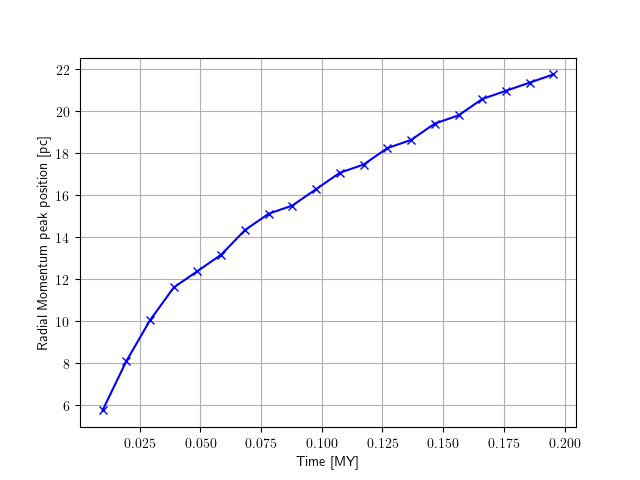
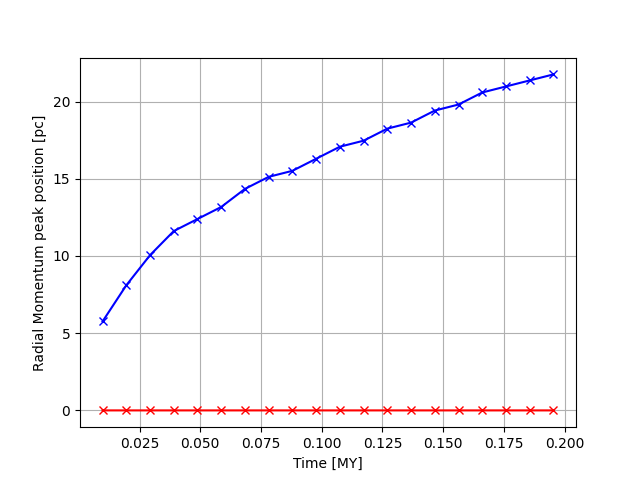
Add files via upload

diff --git a/spherical1d/polytrope_1d_spherical/check.py b/spherical1d/polytrope_1d_spherical/check.py
@@ -10,7 +10,7 @@ import numpy as np    # scientific computing package
 import h5py    # hdf5 format
 import os      # file specific calls
 import matplotlib.pyplot as plt    ## needs to be active for plotting!
-plt.rcParams['text.usetex'] = True
+#plt.rcParams['text.usetex'] = True
 
 makeplots = True
 if len(sys.argv) > 2:
@@ -42,18 +42,37 @@ DeltaMaxAllowed = 0.001 * FloatType(NumberOfCells/256.0)**-2
 i_snap = 0
 directory = simulation_directory+"/output/"
 filename = "snap_%03d.hdf5" % (i_snap)
-data = h5py.File(directory+filename, "r")
-Pos_ref = np.array(data["PartType0"]["Coordinates"], dtype = FloatType)[:,0]
-Density_ref = np.array(data["PartType0"]["Density"], dtype = FloatType)
-Velocity_ref = np.array(data["PartType0"]["Velocities"], dtype = FloatType)[:,0]
-Uthermal_ref = np.array(data["PartType0"]["InternalEnergy"], dtype = FloatType)
+#data = h5py.File(directory+filename, "r")
+#Pos_ref = np.array(data["PartType0"]["Coordinates"], dtype = FloatType)[:,0]
+#Density_ref = np.array(data["PartType0"]["Density"], dtype = FloatType)
+#Velocity_ref = np.array(data["PartType0"]["Velocities"], dtype = FloatType)[:,0]
+Uthermal_0 = np.array(data["PartType0"]["InternalEnergy"], dtype = FloatType)
 
-Accel_ref = np.array(data["PartType0"]["Acceleration"], dtype = FloatType)[:,0]
-GradPress_ref = np.array(data["PartType0"]["PressureGradient"], dtype = FloatType)[:,0]
+#Accel_ref = np.array(data["PartType0"]["Acceleration"], dtype = FloatType)[:,0]
+#GradPress_ref = np.array(data["PartType0"]["PressureGradient"], dtype = FloatType)[:,0]
 UnitTime = 0.977 #in MY
+gamma = 1.666  ## note: this has to be consistent with the parameter settings for Arepo
+Temperature = 1e+4
+kb = 1.38e-16
+mH = 1.67e-24
+scale_v =  1e+5
+scale_l   =  3.086e+18
+scale_m    = 1.98e+33
+scale_t = scale_l/scale_v
+scale_p = scale_m/(scale_l*scale_t**2)
+scale_d = 6.807e-23
+scale_E = scale_m*scale_v**2
 CGSTime = UnitTime*31.6e+12
 CGSMass = 1.988e+33
 CGSlenght = 3.086e+18
+CGSVelocity = CGSlenght/CGSTime
+ergs = 1e-7
+meters = 1e-3
+kg = 1e-3
+
+#print(Uthermal_0.sum()*scale_E)
+#quit()
+
 
 
 time = []
@@ -71,6 +90,13 @@ Uthermal_all = np.empty((0,i_snap))
 Ukinetic_all = np.empty((0,i_snap))
 Utot_all = (Uthermal_all + Ukinetic_all)
 Ufond =  kb*T #Uthermal_ref[Uthermal_ref.size-1]
+eta = 2.026
+E = 1e+51
+density_0 = 1.0*scale_d #repris de create.py QUOI METTRE???
+rAna = np.zeros(20)
+vAna = np.zeros(20)
+RadAna = np.zeros(20)
+
 
 
 
@@ -91,6 +117,8 @@ while True:
     Velocity = np.array(data["PartType0"]["Velocities"], dtype = FloatType)[:,0]
     Uthermal = np.array(data["PartType0"]["InternalEnergy"], dtype = FloatType)
     Volume = []
+    mu = 14/23*mH
+    Temperature = 2/3*mu*mH*Uthermal/kb/Density
 
     for i,r in enumerate(Pos) :
       if i == 0 :
@@ -98,15 +126,24 @@ while True:
       else :
         Volume.append(4./3.*np.pi*(Pos[i]**3 - Pos[i-1]**3))
 
-
+    n = Density*CGSMass/Volume/CGSlenght**3/mu/mH
     Mass = Density*Volume
     RadMom = Velocity*Mass
     Ukinetic = 0.5*Velocity**2*Mass
+    Pressure = n*Temperature*kb #Temperature*kb*Density/mu/mH MAUVAISE VALEUR
 
     totRadMom[i_snap-1] = RadMom.sum()
     totUtherm[i_snap-1] = (Uthermal.sum() - Ufond)*CGSMass*CGSlenght**2/CGSTime**2
     totUkin[i_snap-1] = Ukinetic.sum()*CGSMass*CGSlenght**2/CGSTime**2
     totUtot[i_snap-1] = (Uthermal.sum() - Ufond + Ukinetic.sum())*CGSMass*CGSlenght**2/CGSTime**2
+
+    t= time_step*i_snap*scale_t
+
+    ################################# Solution analytique #####################################
+    rAna[i_snap-1] = (eta*E*scale_E/density_0)**0.2*t*scale_l
+    vAna[i_snap-1] = np.gradient(rAna[i_snap], t)
+    RadAna[i_snap-1] = vAna*Mass
+    
 
     
     
@@ -152,7 +189,7 @@ while True:
         
         ax[0].plot(Pos, Density, 'b', label='evolved profile')
         ax[0].plot(Pos, Density, 'r+', label='Arepo cells')
-        ax[0].plot(Pos_ref, Density_ref, 'k--', label='initial profile', lw=0.7)
+       # ax[0].plot(Pos_ref, Density_ref, 'k--', label='initial profile', lw=0.7)
         ax[0].set_ylabel(r"density")
         #ax[0].fill_between([0.1,0.7],[0.0,0.0],[1.01,1.01], color='k',alpha=0.2)
         #ax[0].set_ylim( 0., 1. )
@@ -160,23 +197,23 @@ while True:
         ax[0].set_xscale("log")
 
         
-        ax[1].plot(Pos, Density, 'b')
-        ax[1].plot(Pos_ref, [1.0]*Pos_ref.shape[0], 'k--', lw=0.7)
-        ax[1].set_ylabel(r"rel. density")
+        ax[1].plot(Pos, Temperature, 'b')
+       # ax[1].plot(Pos_ref, [1.0]*Pos_ref.shape[0], 'k--', lw=0.7)
+        ax[1].set_ylabel(r"Temperature [K]")
         #ax[1].set_ylim([0.99,1.01])
         #ax[1].fill_between([0.1,0.7],[0.99,0.99],[1.01,1.01], color='k',alpha=0.2)
         
         ax[2].plot(Pos, Velocity, 'b')
-        ax[2].plot(Pos_ref, [0.0]*Pos_ref.shape[0], 'k--', lw=0.7)
+       # ax[2].plot(Pos_ref, [0.0]*Pos_ref.shape[0], 'k--', lw=0.7)
         ax[2].set_ylabel(r"velocity")
         #ax[2].set_ylim([-0.01,0.01])
         #ax[2].fill_between([0.1,0.7],[-0.01,-0.01],[0.01,0.01], color='k',alpha=0.2)
         
-        ax[3].plot(Pos[:-1], Accel[:-1] - GradPress[:-1] / Density[:-1], 'b')
-        ax[3].plot(Pos_ref[:-1], Accel_ref[:-1] - GradPress_ref[:-1] / Density_ref[:-1], 'k--', lw=0.7)
+        ax[3].plot(Pos, Pressure, 'b')
+        #ax[3].plot(Pos_ref[:-1], Accel_ref[:-1] - GradPress_ref[:-1] / Density_ref[:-1], 'k--', lw=0.7)
        # ax[3].set_ylim([-0.5,0.1])#
         
-        ax[3].set_ylabel(r"net accel.")
+        ax[3].set_ylabel(r"Pressure")
         ax[3].set_xlabel(r"radius")
        # ax[3].set_xlim([0.0,0.8])
        # ax[3].fill_between([0.1,0.7],[-0.5,-0.5],[0.1,0.1], color='k',alpha=0.2)
@@ -187,30 +224,30 @@ while True:
         
         if not os.path.exists( simulation_directory+"/plots" ):
           os.mkdir( simulation_directory+"/plots" )
-        fig.savefig(simulation_directory+"/plots/profiles_%03d.pdf"%i_snap)
+        fig.savefig(simulation_directory+"/plots/profiles_%03d.png"%i_snap)
         plt.close(fig)
     
     
     """ compare to ICs by interpolating to IC positions """
     
-    delta_dens = np.interp(Pos_ref, Pos, Density) - Density_ref
-    delta_vel = np.interp(Pos_ref, Pos, Velocity) - Velocity_ref
-    delta_uthermal = np.interp(Pos_ref, Pos, Uthermal) - Uthermal_ref
+  #  delta_dens = np.interp(Pos_ref, Pos, Density) - Density_ref
+  #  delta_vel = np.interp(Pos_ref, Pos, Velocity) - Velocity_ref
+  #  delta_uthermal = np.interp(Pos_ref, Pos, Uthermal) - Uthermal_ref
     
     ## L1 norm
-    i_check, = np.where(Pos_ref < 0.7)
+   # i_check, = np.where(Pos_ref < 0.7)
     
-    L1_dens = np.average( np.abs(delta_dens[i_check]) )
-    L1_vel = np.average( np.abs(delta_vel[i_check]) )
-    L1_uthermal = np.average( np.abs(delta_uthermal[i_check]) )
+   # L1_dens = np.average( np.abs(delta_dens[i_check]) )
+   # L1_vel = np.average( np.abs(delta_vel[i_check]) )
+   # L1_uthermal = np.average( np.abs(delta_uthermal[i_check]) )
     
     
     """ printing results """
-    print("examples/polytrope_1d_spherical/check.py: L1 error of " + filename +":")
-    print("\t density: %g" % L1_dens)
-    print("\t velocity: %g" % L1_vel)
-    print("\t specific internal energy: %g" % L1_uthermal)
-    print("\t tolerance: %g for %d cells" % (DeltaMaxAllowed, NumberOfCells) )
+   # print("examples/polytrope_1d_spherical/check.py: L1 error of " + filename +":")
+   # print("\t density: %g" % L1_dens)
+   # print("\t velocity: %g" % L1_vel)
+   # print("\t specific internal energy: %g" % L1_uthermal)
+   # print("\t tolerance: %g for %d cells" % (DeltaMaxAllowed, NumberOfCells) )
     
     """ criteria for failing the test """
   #  if L1_dens > DeltaMaxAllowed or L1_vel > DeltaMaxAllowed or L1_uthermal > DeltaMaxAllowed:
@@ -241,6 +278,7 @@ fig.savefig(simulation_directory+"/plots/RadialMomentum")
 # Peak radial momentum evolution
 fig, ax = plt.subplots()
 ax.plot(time, peak_Rad, marker='x', linestyle='-', color='b')
+ax.plot(time, rAna, marker='x', linestyle='-', color='r')
 ax.set_xlabel("Time [MY]")
 ax.set_ylabel("Radial Momentum peak position [pc]")
 #ax.set_title("Case with cooling")

diff --git a/spherical1d/polytrope_1d_spherical/create.py b/spherical1d/polytrope_1d_spherical/create.py
@@ -40,6 +40,7 @@ scale_m    = 1.98e+33
 scale_t = scale_l/scale_v
 scale_p = scale_m/(scale_l*scale_t**2)
 scale_d = 6.807e-23
+scale_E = scale_m*scale_v**2
 pressure_0 = pressure/scale_p
 
 
@@ -80,8 +81,8 @@ Uthermal = Pressure / Density / (gamma - FloatType(1.0) )
 Mass = Density
 ncells = 0
 TotalEnergy = 1e+51
-scale_E = scale_m*scale_v**2
 TotalEnergy_0 = TotalEnergy/scale_E
+TotVolume = 4./3.*np.pi*((Boxsize/10)**3)
 
 def Volume(i) :
     if i == 0 :
@@ -99,10 +100,13 @@ for i,r in enumerate(Radius) :
 for i,r in enumerate(Radius) :                      #initialize high energy in a small part of space (1/10 of boxsize)
     if r < Boxsize/10 :
        
-       Uthermal[i] += TotalEnergy_0/ncells/Volume(i)
+       Uthermal[i] += TotalEnergy_0/ncells#/Volume(i)
+
+print(Uthermal.sum()*scale_E)#*4./3.*np.pi*(Boxsize)**3)
+#quit()
 
 """ write *.hdf5 file; minimum number of fields required by Arepo """
-IC = h5py.File(FilePath, 'w')    # open/create file
+IC = h5py.File(FilePath, 'w')    # open/cr#eate file
 
 ## create hdf5 groups
 header = IC.create_group("Header")    # create header group
